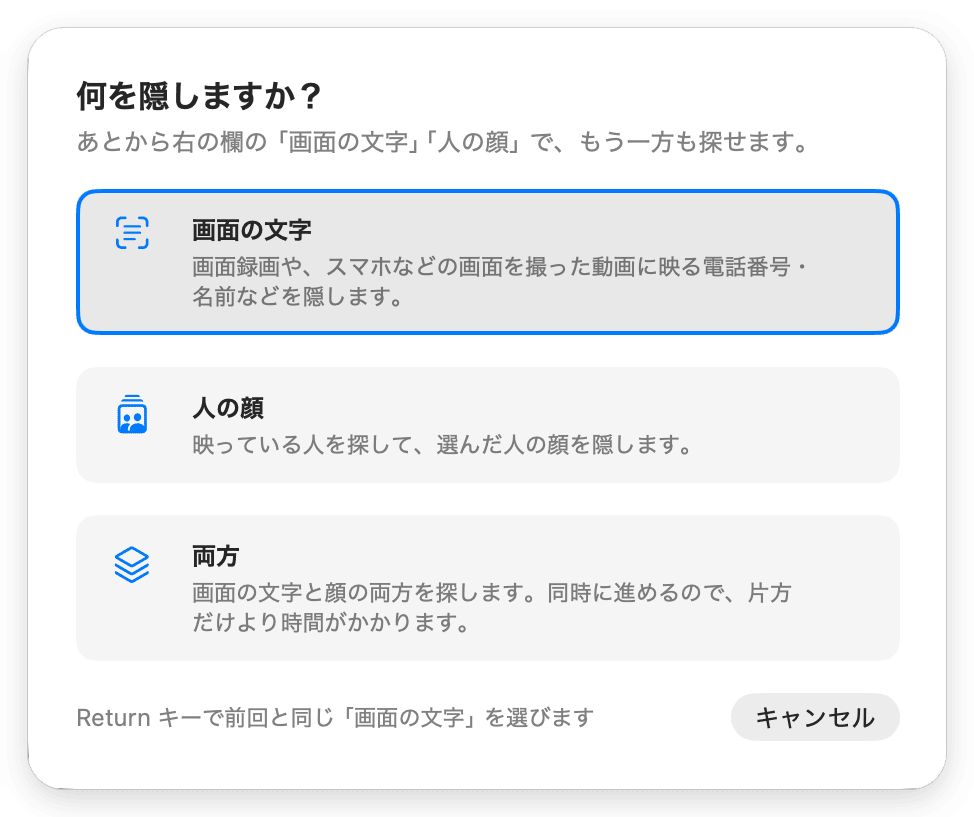
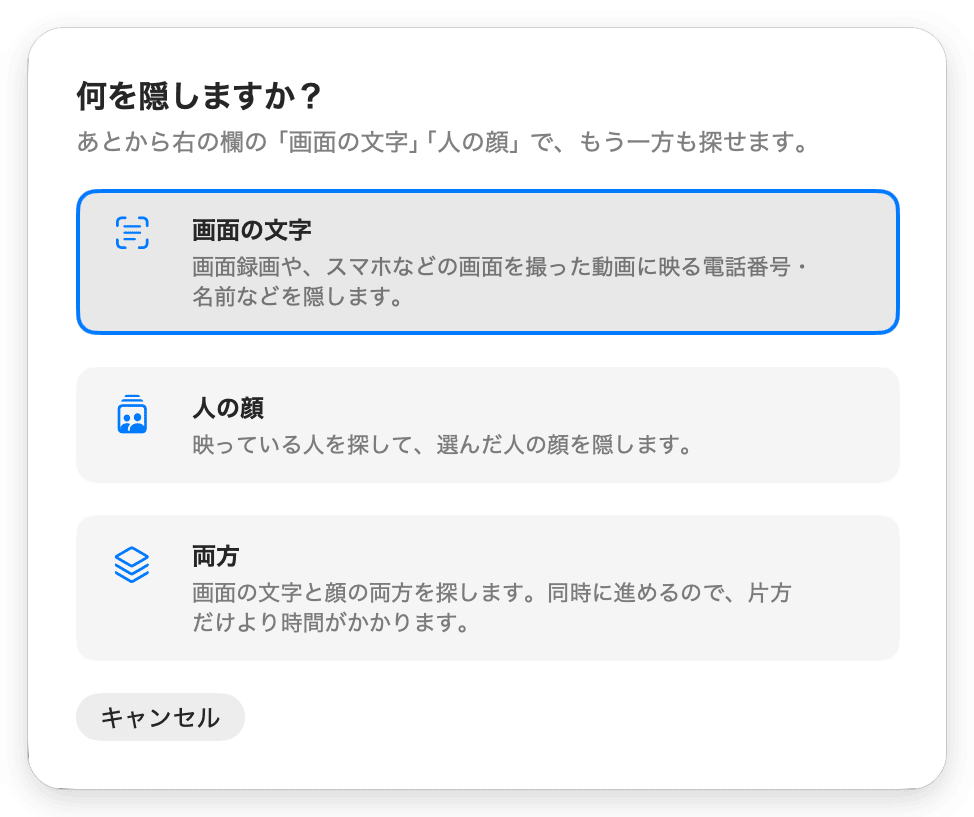
fix(ui): 「何を隠しますか？」の下の説明を外し、キャンセルを左に置く
前回の選択は青い枠で強調しているので、「Return キーで前回と同じ…」の
説明は macOS の標準どおり不要とした。キャンセルは戻る操作なので、HIG の
とおり先頭側（左）に置く。右に 1 つだけあると、進むボタンに見えるため。
README の purpose.png も撮り直す。

Changed region(s): [[0.0616, 0.8568, 0.616, 0.8874], [0.77, 0.8568, 0.8932, 0.8874]]

diff --git a/Sources/WipeMosaicApp/PurposeSheet.swift b/Sources/WipeMosaicApp/PurposeSheet.swift
@@ -43,14 +43,12 @@ struct PurposeSheet: View {
             ForEach(Purpose.allCases, id: \.self) { p in
                 option(p)
             }
+            // Cancel steps back, so it sits on the leading side (HIG); the choices above go forward.
             HStack {
-                Text("Return キーで前回と同じ「\(model.lastPurpose.title)」を選びます")
-                    .font(.callout)
-                    .foregroundStyle(.secondary)
-                Spacer()
                 Button("キャンセル", role: .cancel) { model.cancelPurpose() }
                     .keyboardShortcut(.cancelAction)
                     .help("動画を追加せずに閉じます（esc）")
+                Spacer()
             }
         }
         .padding(24)

diff --git a/docs/USAGE.md b/docs/USAGE.md
@@ -4,7 +4,7 @@
 
 ## 操作
 
-1. **動画を追加**：サイドバー上の「＋」（⌘O、何本でもまとめて選べる）、ウインドウか Dock のアイコンへドロップ、ファイル ▸ 最近使った項目を開く、または Finder の「このアプリケーションで開く」（複数可）。動画がないときは、3 つの手順（追加 → 何を隠すか選ぶ → 確かめて書き出す）と「動画を追加…」ボタン、「処理はすべてこのMacの中で行います」の表示が出る。写真（JPEG・HEIC・PNG など）を入れたときは動画として扱わず、顔写真は設定（⌘,）から登録するよう案内する。追加すると「何を隠しますか？」と聞かれる。「画面の文字」「人の顔」「両方」から選ぶと、まとめて追加した動画すべてに使い、選んだものだけを探し始める（Return キーで前回と同じものを選ぶ。「キャンセル」（esc）で動画を追加せずに閉じる。選ぶまで右の欄には「隠すものを選んでください」とだけ出る）。顔は追加した順に 1 本ずつ探す（表示中の動画を優先）。「画面の文字」だけを選んだ動画は顔を探さず、右の一覧も「画面の文字」で開く。あとから「人の顔」の「顔を探す」で顔も探せる。「両方」では顔と文字を同時に探す。一覧の状態は「順番待ち／顔を探しています n%／文字を読み取っています n%／n人中m人・文字 n行を隠す／書き出し済み／開けません」
+1. **動画を追加**：サイドバー上の「＋」（⌘O、何本でもまとめて選べる）、ウインドウか Dock のアイコンへドロップ、ファイル ▸ 最近使った項目を開く、または Finder の「このアプリケーションで開く」（複数可）。動画がないときは、3 つの手順（追加 → 何を隠すか選ぶ → 確かめて書き出す）と「動画を追加…」ボタン、「処理はすべてこのMacの中で行います」の表示が出る。写真（JPEG・HEIC・PNG など）を入れたときは動画として扱わず、顔写真は設定（⌘,）から登録するよう案内する。追加すると「何を隠しますか？」と聞かれる。「画面の文字」「人の顔」「両方」から選ぶと、まとめて追加した動画すべてに使い、選んだものだけを探し始める（前回と同じものが青い枠で強調され、Return キーで選べる。「キャンセル」（esc）で動画を追加せずに閉じる。選ぶまで右の欄には「隠すものを選んでください」とだけ出る）。顔は追加した順に 1 本ずつ探す（表示中の動画を優先）。「画面の文字」だけを選んだ動画は顔を探さず、右の一覧も「画面の文字」で開く。あとから「人の顔」の「顔を探す」で顔も探せる。「両方」では顔と文字を同時に探す。一覧の状態は「順番待ち／顔を探しています n%／文字を読み取っています n%／n人中m人・文字 n行を隠す／書き出し済み／開けません」
 2. **隠す人**（右の一覧）：顔を押すと（チェックボックスでも、動画の中の顔でも）その人の顔を隠し、もう一度押すと外れる。名前のあたりを押すと、その人が映る場面を表示する。行の右の ⏭ で、その人が映る次の場面へ進む
    - 選んだ人の行の「隠し方」メニュー：「基本の隠し方（モザイク／ぼかし）」か、スタンプ（顔に重ねる画像）を選ぶ。「画像を選んでスタンプにする…」で PNG・JPEG・HEIC などを選ぶと、その人の顔に重ね、スタンプの一覧に加わる。顔の写真なら写真の顔を動画の顔に合わせ、写真が大きければ顔のまわりだけを使う。同じ人かもしれない人にも同じスタンプが付く。顔を隠しきれる画像なら、検出できた場面ではスタンプの下にモザイクをかけないので、髪型や頭の輪郭はスタンプの周りから見える。顔を見失って位置を推し量っている場面（前後も続ける時間など）と、透明や半透明の部分から顔が透ける・いまの大きさでは顔がはみ出す画像では、スタンプの下にもモザイク（ぼかし）をかける（後者は行と書き出しのシートに、スタンプだけで隠す直し方が出る）。いらなくなったスタンプは、同じメニューの「保存したスタンプを削除」から消せる（確認が出る。使っていた人は基本の隠し方に戻る。設定の「スタンプ」からも消せる）
    - 「全員（m／n人）」で全員をまとめて切り替える（一部だけのときは「−」）。「人物」メニューの「全員にモザイクをかける」（⇧⌘A）・「全員のモザイクを外す」も同じ。通行人が多い動画は、全員を選んでから残したい人だけ外すと早い

diff --git a/docs/DEVELOPMENT.md b/docs/DEVELOPMENT.md
@@ -13,7 +13,7 @@
 - 「顔を探し終わったら全員を選んでおく」：採らない。顔だけの動画は誰も選んでいないと書き出せない（書き出しボタンが押せない）ので、気づかずに顔が残る動画はできない。全員を選んだ状態から始めると、撮った本人や出演者にも気づかずにモザイクがかかる。「両方」で文字だけ選んで書き出すときは、書き出しシートに「顔がN人見つかりましたが、誰も選んでいません（顔は隠れません）」と出す
 - 行や人ごとの「確認済み」の印と、未確認が残るときの警告：機能の追加なので後回し。いまは「隠していない行だけを表示」、各行の「隠しています／隠していません」、書き出しシートの「書き出した動画を最後まで確かめてください」で補う
 - 「自動で隠すもの」を動画ごとにする：採らない。見出しに「すべての動画に共通」と書き、外した種類は書き出しシートで動画ごとに注意を出す
-- Return キーで前回と同じ用途を選ぶ：残す。シートの下に「Return キーで前回と同じ「…」を選びます」と、何が選ばれるかを書く
+- Return キーで前回と同じ用途を選ぶ：残す。何が選ばれるかは青い枠で示す（シートの下の「Return キーで前回と同じ「…」を選びます」は、macOS の標準どおり既定の強調だけで足りるので外した。選ばなかった側は書き出しシートで「人の顔は探していません」のように注意する）
 
 9 巡目：
 
